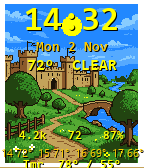
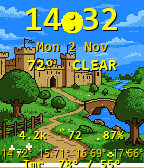
Crop PixelLab white window frames so weather scenes are full-bleed.

diff --git a/tools/prepare_assets.py b/tools/prepare_assets.py
@@ -29,6 +29,55 @@ SCENES = (
 )
 
 SCENE_SIZE = (144, 168)
+WHITE_BORDER = 230
+
+
+def crop_white_border(im: Image.Image, threshold: int = WHITE_BORDER) -> Image.Image:
+    """Remove PixelLab letterbox / window frames so scenes are full-bleed.
+
+    PixelLab often leaves a 1px dirty edge outside a thick white matte. Treat
+    near-white as empty and crop to the real painted content bbox.
+    """
+    im = im.convert("RGBA")
+    w, h = im.size
+    mask = Image.new("L", (w, h), 0)
+    src = im.load()
+    dst = mask.load()
+    for y in range(h):
+        for x in range(w):
+            r, g, b, a = src[x, y]
+            if a < 8:
+                continue
+            if r >= threshold and g >= threshold and b >= threshold:
+                continue
+            dst[x, y] = 255
+
+    bbox = mask.getbbox()
+    if not bbox:
+        return im
+
+    left, top, right, bottom = bbox
+    # Trim residual mostly-empty gutters (white columns with a few content pixels).
+    px = mask.load()
+
+    def mostly_empty_col(x: int) -> bool:
+        painted = sum(1 for y in range(top, bottom) if px[x, y])
+        return painted < 0.15 * (bottom - top)
+
+    def mostly_empty_row(y: int) -> bool:
+        painted = sum(1 for x in range(left, right) if px[x, y])
+        return painted < 0.15 * (right - left)
+
+    while left < right - 8 and mostly_empty_col(left):
+        left += 1
+    while right > left + 8 and mostly_empty_col(right - 1):
+        right -= 1
+    while top < bottom - 8 and mostly_empty_row(top):
+        top += 1
+    while bottom > top + 8 and mostly_empty_row(bottom - 1):
+        bottom -= 1
+
+    return im.crop((left, top, right, bottom))
 
 
 def key_black(im: Image.Image, threshold: int = BLACK_KEY) -> Image.Image:
@@ -83,12 +132,12 @@ def main() -> None:
         src = RAW / name
         if not src.exists():
             raise SystemExit(f"missing {src}")
-        im = Image.open(src).convert("RGBA")
-        if im.size != SCENE_SIZE:
-            im = im.resize(SCENE_SIZE, Image.Resampling.NEAREST)
+        im = crop_white_border(Image.open(src))
+        # Stretch cropped art edge-to-edge — no letterbox window frame.
+        im = im.resize(SCENE_SIZE, Image.Resampling.NEAREST)
         dest = OUT_WX / name
         im.save(dest)
-        print(f"wx {dest.name} {im.size[0]}x{im.size[1]}")
+        print(f"wx {dest.name} {im.size[0]}x{im.size[1]} (from crop)")
 
     menu_src = RAW / "menu_icon.png"
     im = fit_square(key_black(Image.open(menu_src)), 25)
